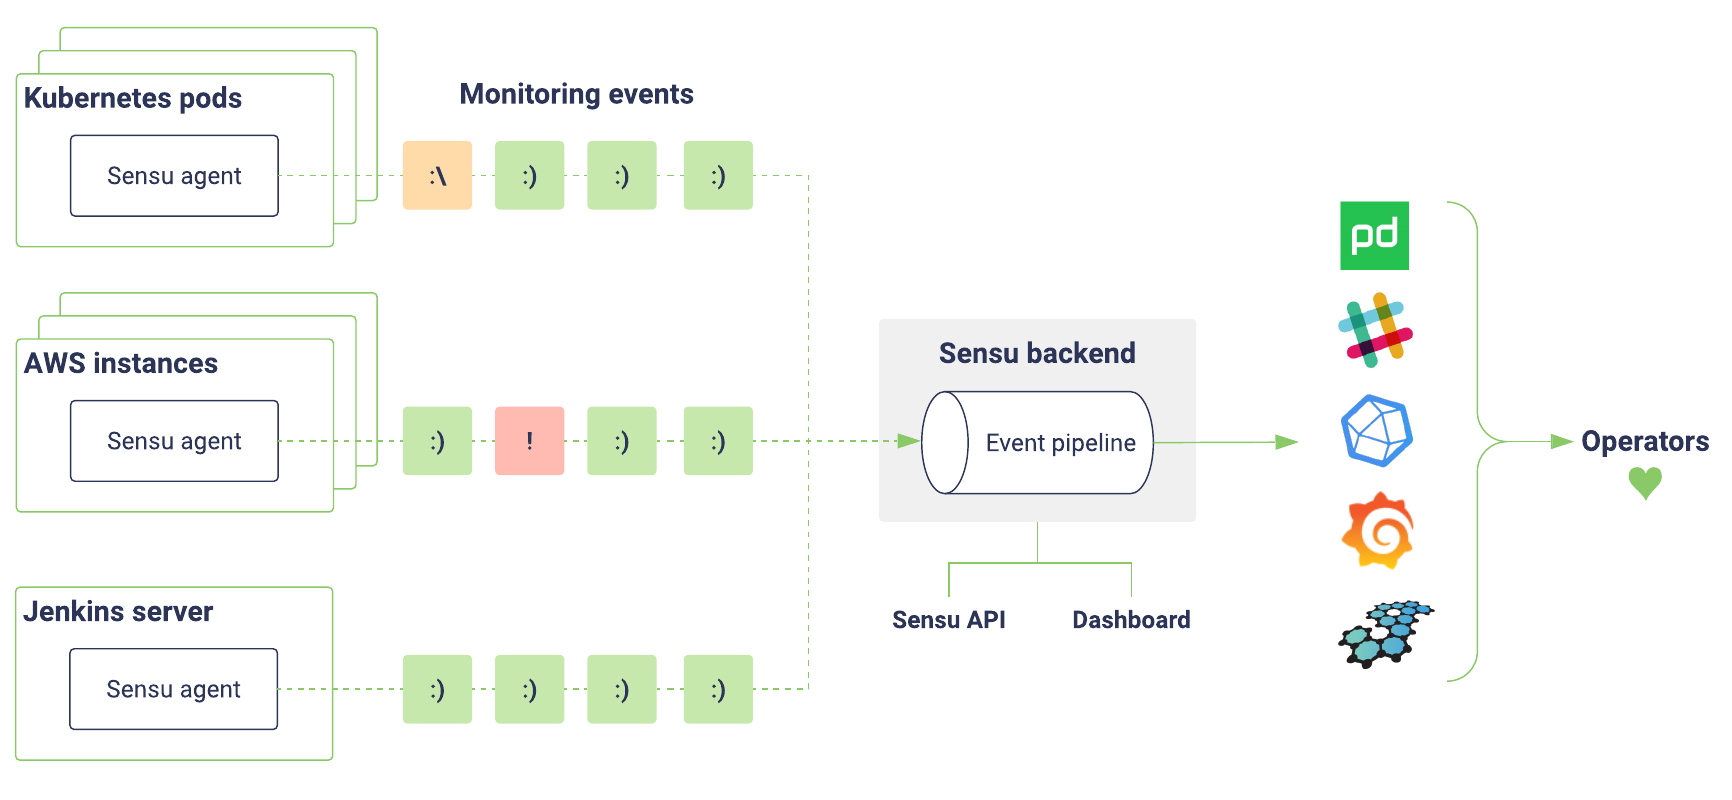
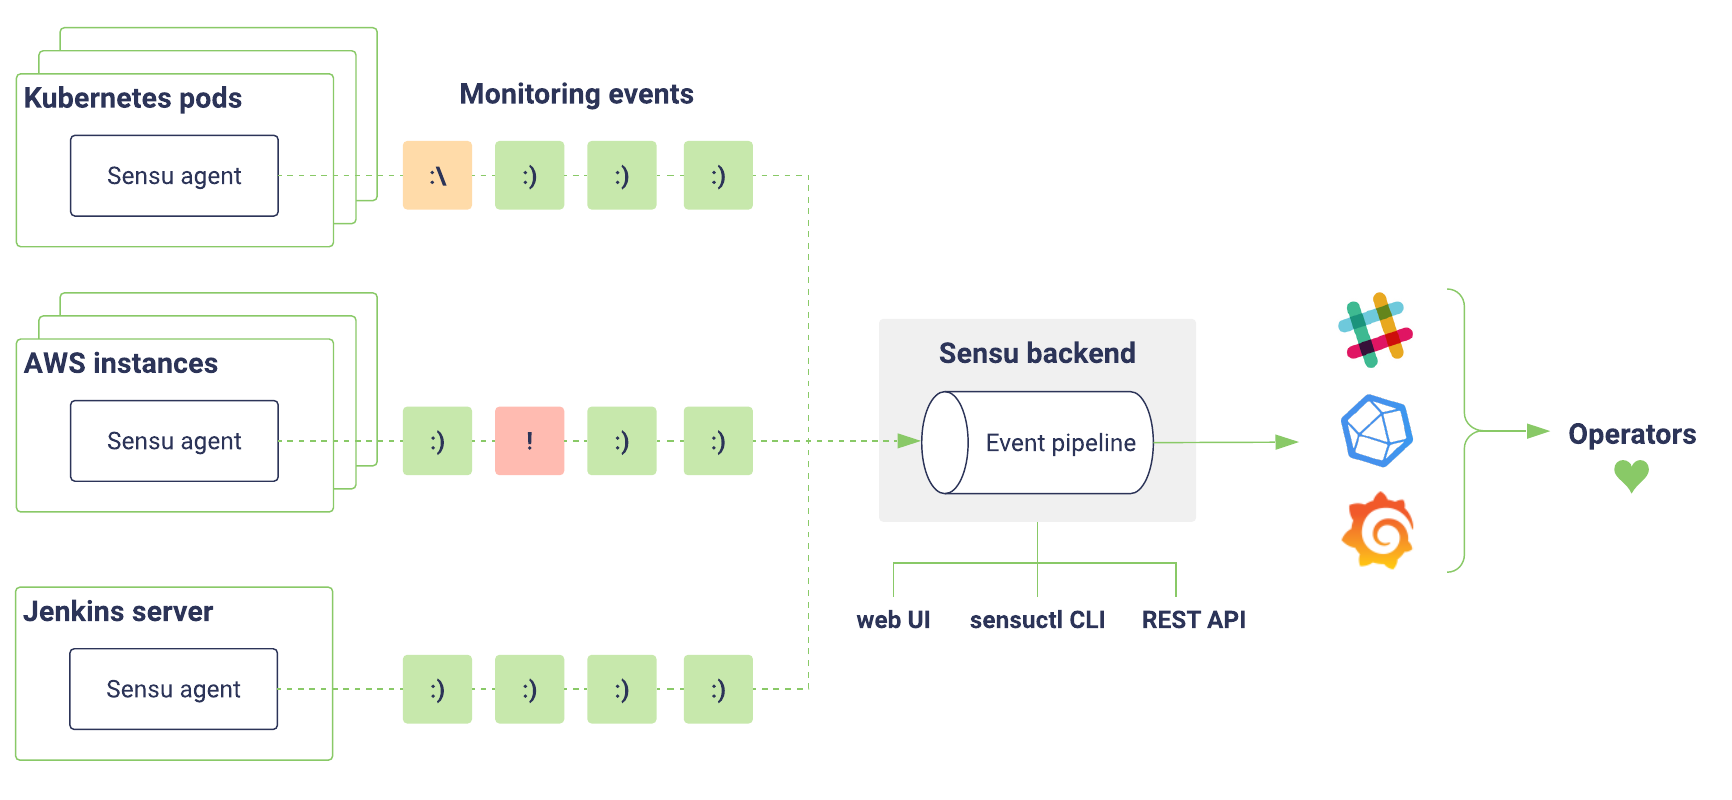
take sensu go out of beta

diff --git a/content/sensu-go/5.0/_index.md b/content/sensu-go/5.0/_index.md
@@ -11,31 +11,22 @@ layout: "single"
 
 <iframe src="https://ghbtns.com/github-btn.html?user=sensu&repo=sensu-go&type=star&count=true" frameborder="0" scrolling="0" width="87px" height="20px"></iframe> | [Share your feedback][2]
 
-## Welcome to the Sensu Go Beta!
-
 Sensu is the open source monitoring event pipeline built to reduce operator burden and make developers and business owners happy.
 Started in 2011, Sensu’s flexible approach solves the challenges of monitoring hybrid-cloud and ephemeral infrastructures with scalable, automated workflows and integrations with tools you already use.
+**Get started now and feel the #monitoringlove:** [Learn Sensu Go][1].
 
-Sensu Go is a new platform, written in Go and designed from the ground up to be more portable, easier and faster to deploy, and (even more) friendly to containerized and ephemeral environments.
+Sensu Go is the latest version of Sensu, written in Go and designed to be more portable, easier and faster to deploy, and (even more) friendly to containerized and ephemeral environments.
 But above all, it was designed to support the features and functionality you’ve come to know and love about Sensu.
 
-**Get started with Sensu Go:**
+**Automate your monitoring workflows**: Limitless pipelines let you validate and correlate events, [mutate data formats][20], [send alerts][21], manage incidents, [collect and store metrics][22], and more.
 
-- [Install the beta][1]
-- [Greg Poirier - Sensu Go Deep Dive at Sensu Summit 2017](https://www.youtube.com/watch?v=mfOk0mOfkvA)
-- [Sensu Go demo with Docker and Kubernetes](https://github.com/sensu/sensu-kube-demo)
-- [Read the product roadmap](https://blog.sensu.io/announcing-the-sensu-roadmap-sensu-go-release-date)
+<img alt="Sensu event pipeline diagram" title="Sensu lets you take monitoring events from your system and use pipelines to take the right action for your workflow." src="/images/pipeline-ce.svg">
 
-### Sensu Go Features
+**Reduce alert fatigue**: Sensu gives you full control over your alerts with flexible [filters][18], [context-rich notifications][19], reporting, [event handling][27], and auto-remediation.
 
-- Limitless pipelines to validate and correlate events, mutate data formats, send alerts, manage incidents, collect and store metrics, and more
-- Lightweight agent to monitor everything from the server closet to the cloud
-- Powerful backend with built-in dashboard and transport
-- New data model that makes metrics a first-class citizen
-- API endpoints for managing handlers and mutators
-- User-friendly [command line interface][3]
-- [Built-in collection for StatsD metrics][4]
-- [Role-based access control][5]
+**Integrate anywhere**: Sensu's open architecture makes it easy to integrate monitoring with tools you already use like Nagios plugins, Chef, Graphite, InfluxDB, and PagerDuty.
+
+<i class="fa fa-youtube-play" aria-hidden="true"></i> <a target="_blank" href="https://www.youtube.com/watch?v=jUW4rAqazwA">Listen to Sensu Inc. CEO Caleb Hailey explain the Sensu monitoring event pipeline.</a>
 
 ### Monitoring for Your Infrastructure
 
@@ -49,43 +40,51 @@ The Sensu agent gives you visibility into everything you care about; the Sensu s
 - **Monitor containers, instances, applications, and on-premises infrastructure**
 
 Sensu is designed to monitor everything from the server closet to the cloud.
-[Install the Sensu agent][15] on the hosts you want to monitor, integrate with the Sensu API, or take advantage of [proxy entities][17] to monitor anything on your network.
+[Install the Sensu agent][15] on the hosts you want to monitor, integrate with the [Sensu API][23], or take advantage of [proxy entities][17] to monitor anything on your network.
 Sensu agents automatically register and de-register themselves with the Sensu server, so you can monitor ephemeral infrastructure without getting overloaded with alerts.
 
 - **Better incident response with filterable, context-rich alerts**
 
 Get meaningful alerts when and where you need them.
 Use [event filters][18] to reduce noise and [check hooks][19] to add context and speed up incident response.
-Sensu integrates with the tools and services your organization already uses like [PagerDuty][6], [Slack][7], and more.
+Sensu integrates with the tools and services your organization already uses like [InfluxDB][6], [Slack][7], and more.
 Check out the [200+ plugins shared by the Sensu community][8], or write your own [Sensu Plugins][9] in any language.
 
 - **Collect metrics and generate alerts with the same tool**
 
 Know what's going on everywhere in your system.
-Use the Sensu agent to collect StatsD metrics alongside check results, then use the event pipeline to route the data to industry-standard tools like Graphite or InfluxDB.
+Use the Sensu agent to [collect StatsD metrics][24] alongside check results, then use the event pipeline to route the data to industry-standard tools like [InfluxDB][6].
 
 - **Intuitive API and dashboard interfaces**
 
-Sensu includes a dashboard to provide a unified view of your agents, checks, and events, as well as a user-friendly silencing tool.
-The Sensu API and the `sensuctl` command-line tool allow you (and your internal customers) to create checks, register agents, manage configuration, and more.
+Sensu includes a [dashboard][25] to provide a unified view of your entities, checks, and events, as well as a user-friendly silencing tool.
+The [Sensu API][23] and the [`sensuctl` command-line tool][26] allow you (and your internal customers) to create checks, register entities, manage configuration, and more.
 
 - **Open source software backed by Sensu Inc.**
 
 Sensu Core is open source software freely available under a
 permissive [MIT License][12] and publicly available on [GitHub][13].
 
-[1]: getting-started/installation-and-configuration/
+[1]: getting-started/get-started
 [2]: http://slack.sensu.io/
 [3]: reference/sensuctl
 [4]: guides/aggregate-metrics-statsd
 [5]: reference/rbac
-[6]: https://www.pagerduty.com
+[6]: https://influxdata.com
 [7]: https://slack.com
 [8]: https://github.com/sensu-plugins
 [9]: /plugins/latest/reference/
 [12]: https://github.com/sensu/sensu-go/blob/master/LICENSE
 [13]: https://github.com/sensu/sensu-go
-[15]: getting-started/installation-and-configuration
+[15]: installation/install-sensu#install-the-sensu-agent
 [17]: guides/monitor-external-resources
 [18]: reference/filters
 [19]: reference/hooks
+[20]: guides/extract-metrics-with-checks
+[21]: guides/send-slack-alerts/
+[22]: guides/influx-db-metric-handler/
+[23]: api/overview
+[24]: guides/aggregate-metrics-statsd/
+[25]: dashboard/overview
+[26]: sensuctl/reference
+[27]: reference/handlers

diff --git a/content/sensu-go/5.0/installation/install-sensu.md b/content/sensu-go/5.0/installation/install-sensu.md
@@ -33,7 +33,7 @@ Sensu backend packages are available for Ubuntu/Debian and RHEL/CentOS.
 Add the Sensu repository.
 
 {{< highlight shell >}}
-curl -s https://packagecloud.io/install/repositories/sensu/beta/script.deb.sh | sudo bash
+curl -s https://packagecloud.io/install/repositories/sensu/stable/script.deb.sh | sudo bash
 {{< /highlight >}}
 
 Install the sensu-backend package.
@@ -51,7 +51,7 @@ sudo apt-get install sensu-backend
 Add the Sensu repository.
 
 {{< highlight shell >}}
-curl -s https://packagecloud.io/install/repositories/sensu/beta/script.rpm.sh | sudo bash
+curl -s https://packagecloud.io/install/repositories/sensu/stable/script.rpm.sh | sudo bash
 {{< /highlight >}}
 
 Install the sensu-backend package.
@@ -122,7 +122,7 @@ Sensu agent packages are available for Ubuntu/Debian, RHEL/CentOS, and Windows.
 Add the Sensu repository.
 
 {{< highlight shell >}}
-curl -s https://packagecloud.io/install/repositories/sensu/beta/script.deb.sh | sudo bash
+curl -s https://packagecloud.io/install/repositories/sensu/stable/script.deb.sh | sudo bash
 {{< /highlight >}}
 
 Install the sensu-agent package.
@@ -139,7 +139,7 @@ sudo apt-get install sensu-agent
 Add the Sensu repository.
 
 {{< highlight shell >}}
-curl -s https://packagecloud.io/install/repositories/sensu/beta/script.rpm.sh | sudo bash
+curl -s https://packagecloud.io/install/repositories/sensu/stable/script.rpm.sh | sudo bash
 {{< /highlight >}}
 
 Install the sensu-agent package.
@@ -274,7 +274,7 @@ sudo mv sensuctl /usr/local/bin/
 Add the Sensu repository.
 
 {{< highlight shell >}}
-curl -s https://packagecloud.io/install/repositories/sensu/beta/script.deb.sh | sudo bash
+curl -s https://packagecloud.io/install/repositories/sensu/stable/script.deb.sh | sudo bash
 {{< /highlight >}}
 
 Install the sensu-cli package.
@@ -292,7 +292,7 @@ sudo apt-get install sensu-cli
 Add the Sensu repository.
 
 {{< highlight shell >}}
-curl -s https://packagecloud.io/install/repositories/sensu/beta/script.rpm.sh | sudo bash
+curl -s https://packagecloud.io/install/repositories/sensu/stable/script.rpm.sh | sudo bash
 {{< /highlight >}}
 
 Install the sensu-cli package.
